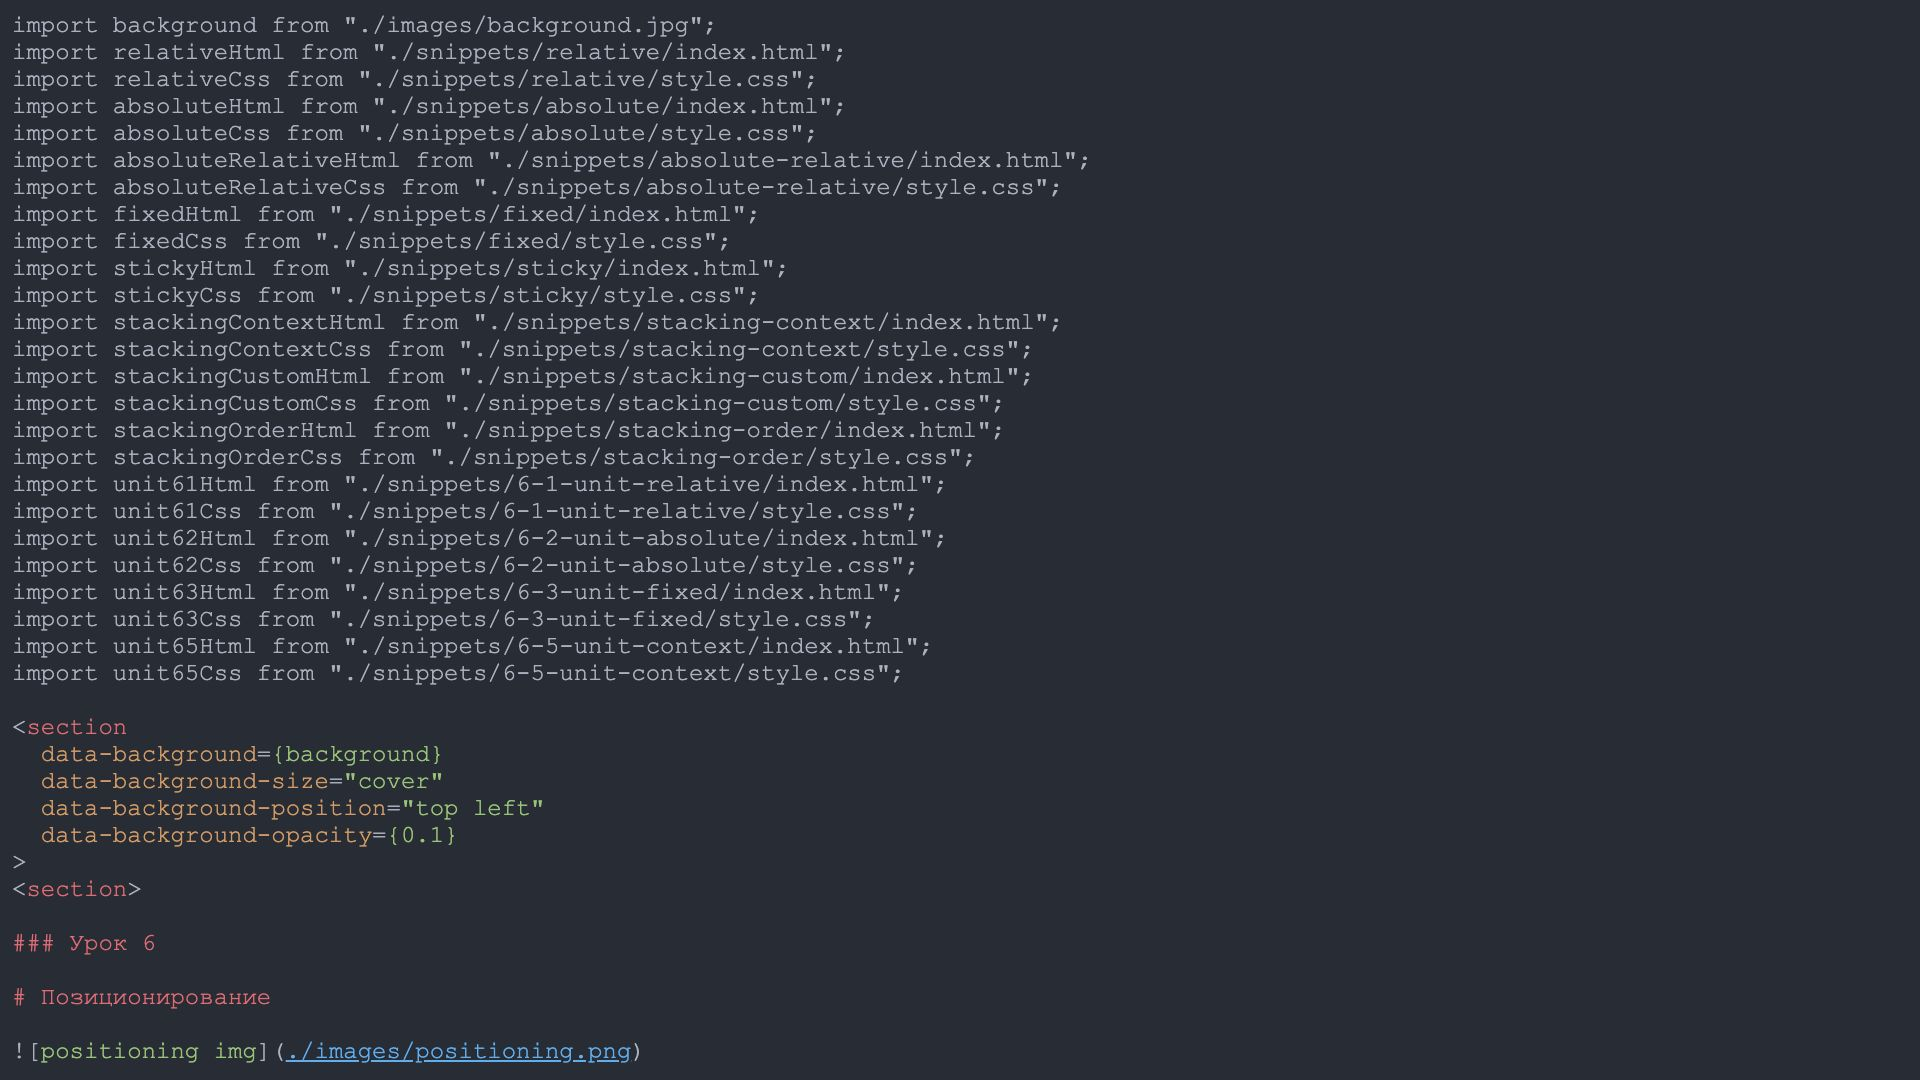
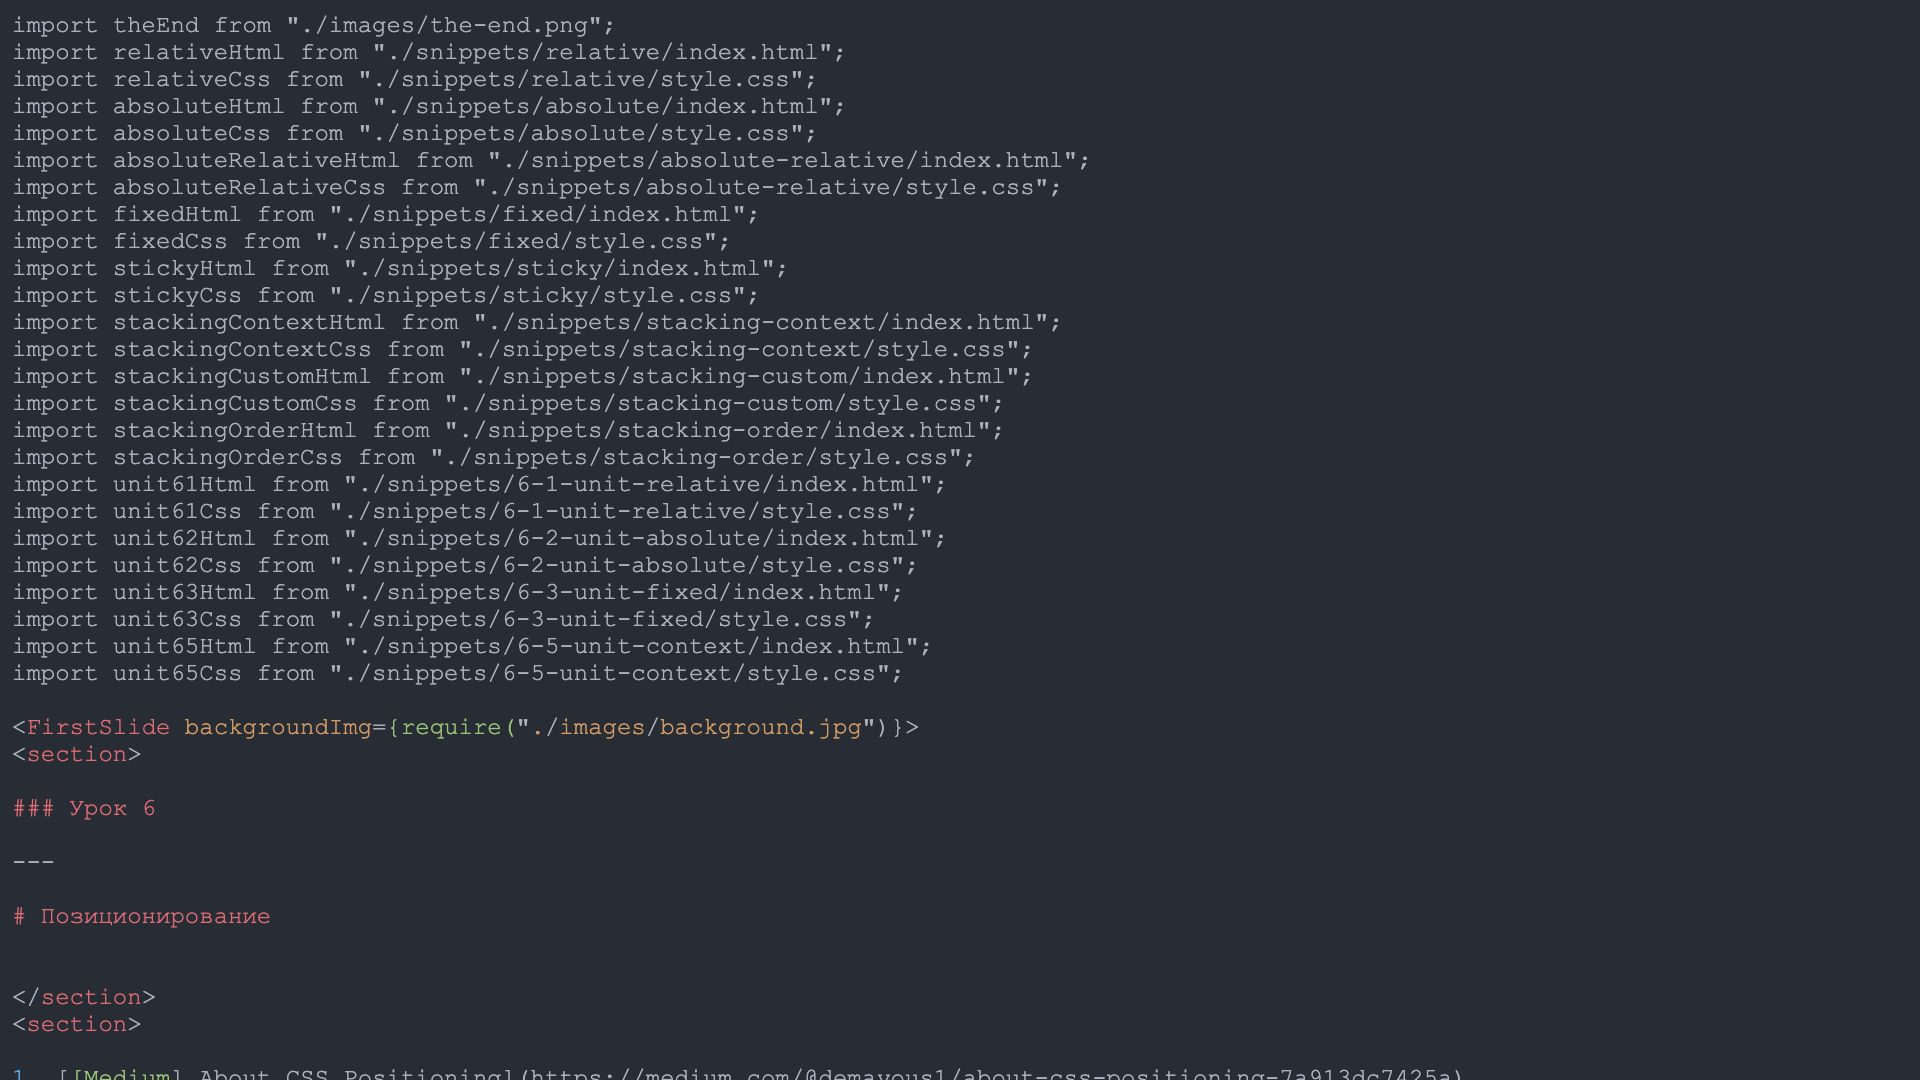
first screen

diff --git a/src/templates/lesson-template.jsx b/src/templates/lesson-template.jsx
@@ -8,17 +8,31 @@ import { MDXProvider } from "@mdx-js/react";
 import components from "components/lessons/mdx";
 import Layout from "../components/layout";
 import RevealProvider from "components/lessons/reveal/RevealProvider.jsx";
+import { ReactComponent as HtmlColoredSvg } from "assets/icons/html5-colored.svg";
 
 hljs.registerLanguage("xml", xml);
 hljs.registerLanguage("css", css);
 
+const StyledHtmlColoredSvg = styled(HtmlColoredSvg)`
+  position: absolute;
+  right: 0;
+  opacity: 0.5;
+  z-index: 0;
+  max-height: 100%;
+  width: 50%;
+  top: 50%;
+  transform: translateY(-50%) rotate(-10deg);
+`;
+
 const StyledLogo = styled(Logo)`
   position: absolute;
-  bottom: 20px;
-  left: 40px;
-  width: 150px;
+  bottom: 10vh;
+  left: 50%;
+  width: 250px;
   fill: ${({ theme }) => theme.colors.textColor};
   padding: 0 10px;
+  opacity: 0.16;
+  transform: translateX(-50%);
 `;
 
 const RevealViewport = styled.div`
@@ -26,11 +40,28 @@ const RevealViewport = styled.div`
   position: relative;
 `;
 
+const Gradient = styled.div`
+  position: fixed;
+  bottom: 0;
+  left: 0;
+  right: 0;
+  top: 0;
+  transform: rotate(-180deg);
+  background: linear-gradient(
+    180deg,
+    #1d1f23 19.93%,
+    rgba(29, 31, 35, 0) 92.7%
+  );
+  pointer-events: none;
+`;
+
 const LessonTemplate = ({ children }) => {
   return (
     <RevealProvider>
       <Layout>
         <MDXProvider components={components}>
+          <StyledHtmlColoredSvg />
+          <Gradient />
           <RevealViewport id="reveal" className="reveal">
             <div className="slides">{children}</div>
           </RevealViewport>

diff --git a/src/components/lessons/slides/FirstSlide.jsx b/src/components/lessons/slides/FirstSlide.jsx
@@ -1,13 +1,5 @@
-import { ReactComponent as HtmlColoredSvg } from "assets/icons/html5-colored.svg";
 import styled from "styled-components";
 
-const StyledHtmlColoredSvg = styled(HtmlColoredSvg)`
-  position: absolute;
-  top: 0;
-  right: 0;
-  opacity: 0.7;
-  transform: rotate(-10deg);
-`;
 
 const StyledSection = styled.section`
   h3 {
@@ -28,10 +20,7 @@ const StyledSection = styled.section`
     height: 4px;
     background-color: ${({ theme }) => theme.colors.textColor};
   }
-
 `;
-
-
 
 export default function FirstSection({ backgroundImg, children }) {
   return (
@@ -41,8 +30,7 @@ export default function FirstSection({ backgroundImg, children }) {
       data-background-position="top left"
       data-background-opacity="0.1"
     >
-        <StyledHtmlColoredSvg height="50vh" />
-        {children}
+      {children}
     </StyledSection>
   );
 }
